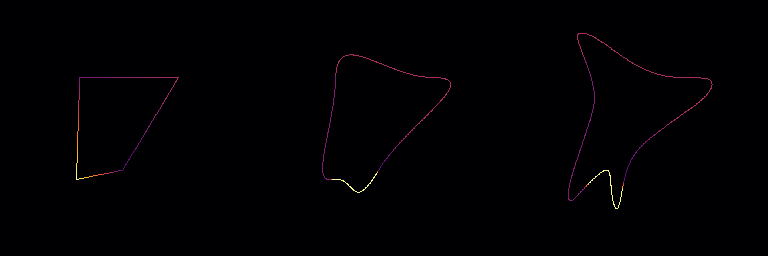
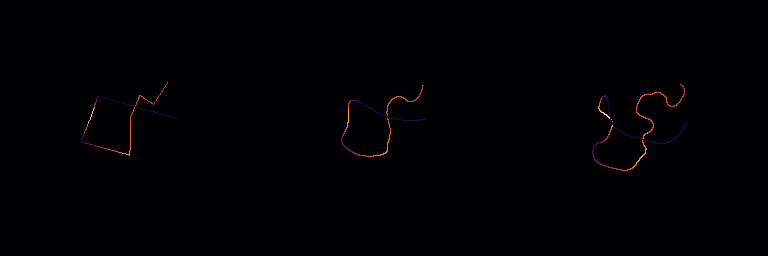
Change Path meandering algorithm using BSpline instead of a gradient based method (more robust and better looking results) (#105)

diff --git a/src/geometry/path.cpp b/src/geometry/path.cpp
@@ -334,74 +334,52 @@ std::vector<float> Path::get_cumulative_distance()
   return dacc;
 }
 
-void Path::meanderize(float radius,
-                      float tangent_contribution,
-                      int   iterations,
-                      float transition_length_ratio)
+void Path::meanderize(float ratio, int iterations, int edge_divisions)
 {
-  float sigma = 0.5f;
-  int   laplace_iterations = 3;
-
   for (int it = 0; it < iterations; it++)
   {
-    std::vector<float> s = this->get_cumulative_distance();
-    std::vector<float> ds = gradient1d(s);
+    Path new_path = Path();
 
-    std::vector<float> tx = gradient1d(this->get_x());
-    std::vector<float> ty = gradient1d(this->get_y());
-    laplace1d(tx, sigma, laplace_iterations);
-    laplace1d(ty, sigma, laplace_iterations);
-
-    std::vector<float> nx = gradient1d(tx);
-    std::vector<float> ny = gradient1d(ty);
-    laplace1d(nx, sigma, laplace_iterations);
-    laplace1d(ny, sigma, laplace_iterations);
-
-    // scaling of the normal vector
-    float scale_n = 0.f;
-    for (size_t i = 0; i < this->get_npoints(); i++)
+    size_t ks = this->closed ? 0 : 1;
+    for (size_t k = 0; k < this->get_npoints() - ks; k++)
     {
-      float d = std::hypot(nx[i], ny[i]);
-      if (d > scale_n)
-        scale_n = d;
-    }
-    scale_n = 1.f / scale_n;
+      size_t kp1 = (k + 1) % this->get_npoints();
+      size_t kp2 = (k + 2) % this->get_npoints();
 
-    for (size_t i = 0; i < this->get_npoints(); i++)
-    {
-      // normalize
-      float scale_t = 1.f / ds[i];
-      tx[i] *= scale_t;
-      ty[i] *= scale_t;
+      new_path.add_point(
+          Point(this->points[k].x, this->points[k].y, this->points[k].v));
 
-      nx[i] *= scale_n;
-      ny[i] *= scale_n;
+      float alpha = angle(this->points[kp1], this->points[k]);
 
-      float cx = tangent_contribution * tx[i] -
-                 (1.f - tangent_contribution) * nx[i];
-      float cy = tangent_contribution * ty[i] -
-                 (1.f - tangent_contribution) * ny[i];
+      float dist = distance(this->points[kp1], this->points[k]);
+      Point p = lerp(this->points[k], this->points[kp1], 0.5f);
 
-      // apply a shape factor to preserve starting and ending parts of
-      // the curve
-      float shape_factor = 1.f;
-      float smax = s.back();
-      if (s[i] < smax * transition_length_ratio)
-        shape_factor = s[i] / (smax * transition_length_ratio);
-      else if (s[i] > smax * (1.f - transition_length_ratio))
-        shape_factor = 1.f - (s[i] / smax - 1.f + transition_length_ratio) /
-                                 transition_length_ratio;
+      // vector relative orientation based on cross-product
+      float cross_product = (this->points[kp2].y - this->points[k].y) *
+                                (this->points[kp1].x - this->points[k].x) -
+                            (this->points[kp2].x - this->points[k].x) *
+                                (this->points[kp1].y - this->points[k].y);
 
-      // smooth transitions
-      shape_factor = shape_factor * shape_factor * (3.f - 2.f * shape_factor);
+      if (cross_product >= 0.f)
+        alpha += M_PI_2;
+      else
+        alpha -= M_PI_2;
 
-      this->points[i].x += cx * radius * shape_factor;
-      this->points[i].y += cy * radius * shape_factor;
+      p.x += ratio * dist * std::cos(alpha);
+      p.y += ratio * dist * std::sin(alpha);
+
+      new_path.add_point(p);
     }
 
-    // remesh to maintain the same distance between points
-    this->resample(s.back() / (float)(this->get_npoints() - 1));
+    if (this->closed)
+      new_path.add_point(this->points[0]);
+    else
+      new_path.add_point(this->points.back());
+
+    *this = new_path;
   }
+
+  this->bspline(edge_divisions);
 }
 
 void Path::reorder_nns(int start_index)

diff --git a/include/highmap/geometry.hpp b/include/highmap/geometry.hpp
@@ -877,16 +877,11 @@ public:
                   float persistence = 1.f);
 
   /**
-   * @brief Add "meanders" to the path using a deformation based on a
-   * combination of the local tangent and normal vectors.
+   * @brief Add "meanders" to the path.
    *
-   * See https://roberthodgin.com/project/meander.
-   *
-   * @param radius Meander reference radius.
-   * @param tangent_contribution Tangent contribution to the meander, in [0, 1].
+   * @param ratio Meander amplitude ratio.
    * @param iterations Number of iterations.
-   * @param transition_length_ratio Transition to preserve starting and ending
-   * parts of the curve.
+   * @param edge_divisions Edge sub-divisions of each edge.
    *
    * **Example**
    * @include ex_path_meanderize.cpp
@@ -894,10 +889,7 @@ public:
    * **Result**
    * @image html ex_path_meanderize.png
    */
-  void meanderize(float radius,
-                  float tangent_contribution,
-                  int   iterations = 1,
-                  float transition_length_ratio = 0.2f);
+  void meanderize(float ratio, int iterations = 2, int edge_divisions = 10);
 
   /**
    * @brief Reorder points using a nearest neighbor search.

diff --git a/examples/ex_path_meanderize/ex_path_meanderize.cpp b/examples/ex_path_meanderize/ex_path_meanderize.cpp
@@ -5,27 +5,37 @@
 int main(void)
 {
   hmap::Vec2<int> shape = {256, 256};
-  int             seed = 1;
+  int             seed = 6;
+  int             npoints = 10;
 
   hmap::Vec4<float> bbox = {1.f, 2.f, -0.5f, 0.5f};
-  hmap::Path        path = hmap::Path(4, seed, {1.3f, 1.7f, -0.2, 0.2f});
+  hmap::Path        path = hmap::Path(npoints, seed, {1.3f, 1.7f, -0.2, 0.2f});
   path.reorder_nns();
-  path.closed = true;
 
   auto z1 = hmap::Array(shape);
   path.to_array(z1, bbox);
 
   auto z2 = hmap::Array(shape);
-  path.bezier(0.5f, 40);
-  path.to_array(z2, bbox);
+  {
+    hmap::Path path_c = path;
+
+    float ratio = 0.2f;
+    int   iterations = 1;
+
+    path_c.meanderize(ratio, iterations);
+    path_c.to_array(z2, bbox);
+  }
 
   auto z3 = hmap::Array(shape);
   {
-    float radius = 0.2f;
-    float tangent_ratio = 0.2f;
-    path.meanderize(radius, tangent_ratio);
+    hmap::Path path_c = path;
+
+    float ratio = 0.4f;
+    int   iterations = 2;
+
+    path_c.meanderize(ratio, iterations);
+    path_c.to_array(z3, bbox);
   }
-  path.to_array(z3, bbox);
 
   hmap::export_banner_png("ex_path_meanderize.png",
                           {z1, z2, z3},
